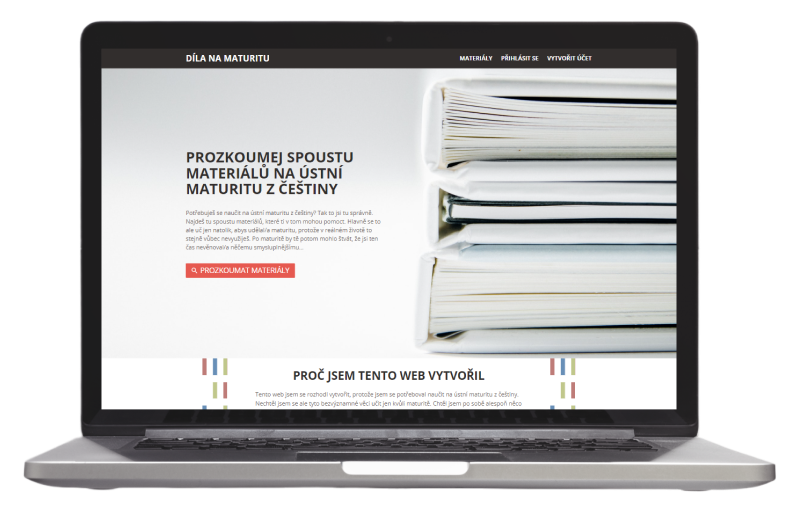
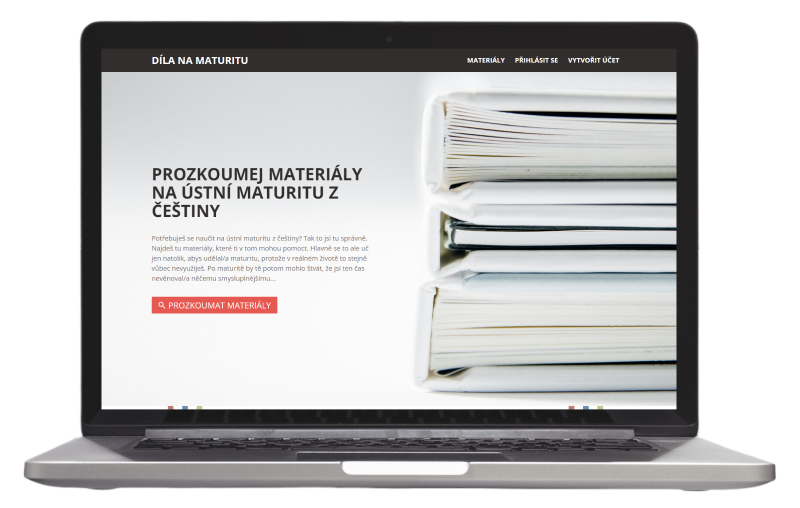
change text, add MySQL technology to projects and change image of project 'Dila na Maturitu'

Changed region(s): [[0.125, 0.0886, 0.8438, 0.8268], [0.1875, 0.2953, 0.4688, 0.6201], [0.2188, 0.7087, 0.3125, 0.8268]]

diff --git a/index.html b/index.html
@@ -83,7 +83,7 @@
                     <div class="about-section__text-side">
                         <p data-aos="fade-right" class="paragraph u-mb-5">Velmi mě baví tvorba webových stránek a hlavně obecně webové programování. Obzvlášť mě baví programovat v JavaScriptu, protože s jeho pomocí je na webu možné vytvořit snad cokoliv. V části <a data-scroll href="#projekty" class="link">projekty</a> si můžete prohlédnout, co jsem zatím vytvořil.</p>
                         <p data-aos="fade-right" class="paragraph u-mb-5">S programováním jsem začal, protože jsem se chtěl naučit tvořit hry. Vyzkoušel jsem toho víc a věnoval jsem se například hernímu enginu Unity, modelování objektů v Blenderu, a spoustě dalším věcem. Postupem času jsem se ale postupně přesunul k tvorbě webových stránek a u toho jsem zůstal. Pokud dělám hry, tak již jen webové.</p>
-                        <p data-aos="fade-right" class="paragraph">V současné době studuji poslední rok na střední škole obor informační technologie. Po jejím dokončení bych si chtěl v oblasti webového programování najít práci a věnovat se tvorbě webových stránek profesionálně. Do té doby bych chtěl ale ještě stihnout alespoň do hratelné podoby dodělat webovou hru, kterou mám již více jak půl roku rozdělanou. Je to největší projekt, na kterém jsem zatím pracoval a bude představovat hlavní projekt v mém portfoliu.</p>
+                        <p data-aos="fade-right" class="paragraph">V současné době mám za sebou poslední rok studia oboru informační technologie na střední škole. Rád bych si teď v oblasti webového programování chtěl najít práci a věnovat se tvorbě webových stránek profesionálně. Rozhodl jsem se ale, že v červnu ještě zůstanu doma a budu pracovat na webové hře, kterou mám již více jak třičtvrtě roku rozdělanou. Chtěl jsem ji dokončit do doby, než s hledáním práce začnu, abych měl ve svém portfoliu alespoň jeden větší a složitější projekt. Už teď je mi ale jasné, že to nestihnu. Zbývá mi toho udělat ještě dost. Ukázat jej ale potencionálnímu zaměstnavateli moci budu, jelikož hru již hostuji, ale pod heslem. Potřeboval jsem totiž najít lidi, kteří by mi pro ni pomohli pomocí editoru, který jsem pro ni naprogramoval, vytvořit levely.</p>
                     </div>
                     <img data-aos="zoom-in-up" src="./assets/static/img/JiriSatora.jpg" alt="Jiří Satora" class="about-section__photo">
                     <div class="about-section__favourites-side">
@@ -261,7 +261,7 @@
                         <div data-aos="zoom-in" data-aos-duration="600">
                             <h3 class="heading-tertiary u-mb-4">Kuře na silnici</h3>
                             <p class="paragraph u-mb-5">Jednoduchá webová hra, ve které uživatel hraje za kuře a snaží se přecházením přes silnice dostat co nejdál. Web umožňuje vytvořit si účet a uložit si své nejlepší skóre do globálního žebříčku.</p>
-                            <p class="paragraph u-mb-8"><b>Použité technologie:</b> HTML, CSS, JS, Three.js, PHP, Webpack</p>
+                            <p class="paragraph u-mb-8"><b>Použité technologie:</b> HTML, CSS, JS, Three.js, PHP, MySQL, Webpack</p>
                             <div class="buttons-row">
                                 <a href="http://kure-na-silnici.4fan.cz/" target="_blank" class="button-primary">
                                     <svg>
@@ -361,7 +361,7 @@
                         <div data-aos="zoom-in" data-aos-duration="600">
                             <h3 class="heading-tertiary u-mb-4">Díla na maturitu</h3>
                             <p class="paragraph u-mb-5">Webová aplikace, která obsahuje materiály k přípravě na ústní maturitu z češtiny. Umožňuje uživatelům vybrat si materiál a začít jej číst nebo se podle něj nechat otestovat. Také tam mohou sami uživatelé vytvářet své vlastní materiály a sdílet je tak s ostatními uživateli webu.</p>
-                            <p class="paragraph u-mb-8"><b>Použité technologie:</b> HTML, CSS, JS, React, Node.js</p>
+                            <p class="paragraph u-mb-8"><b>Použité technologie:</b> HTML, CSS, JS, React, Node.js, MySQL</p>
                             <div class="buttons-row">
                                 <a href="https://dila-na-maturitu.cz/" target="_blank" class="button-primary">
                                     <svg>
@@ -485,7 +485,7 @@
                     <div data-is-project-best="true" class="projects-section__project">
                         <div data-aos="zoom-in" data-aos-duration="600">
                             <h3 class="heading-tertiary u-mb-4">Algoritmy a datové struktury v JS</h3>
-                            <p class="paragraph u-mb-5">Webové stránky s tutoriálem, který uživatele postupně seznamuje s různými algoritmy a datové struktury. Tutoriál obsahuje spoustu interaktivních ukázek, které uživateli umožňují vidět, jak se postupně provádí kód a vizuálně si prohlédnout, jak se pracuje s různými datovými strukturami.</p>
+                            <p class="paragraph u-mb-5">Webové stránky s tutoriálem, který uživatele postupně seznamuje s různými algoritmy a datovými strukturami. Tutoriál obsahuje spoustu interaktivních ukázek, které uživateli umožňují vidět, jak se postupně provádí kód a vizuálně si prohlédnout, jak se pracuje s různými datovými strukturami.</p>
                             <p class="paragraph u-mb-8"><b>Použité technologie:</b> HTML, CSS, JS</p>
                             <div class="buttons-row">
                                 <a href="https://jirkasa.github.io/algoritmy-a-datove-struktury-v-js/" target="_blank" class="button-primary">
